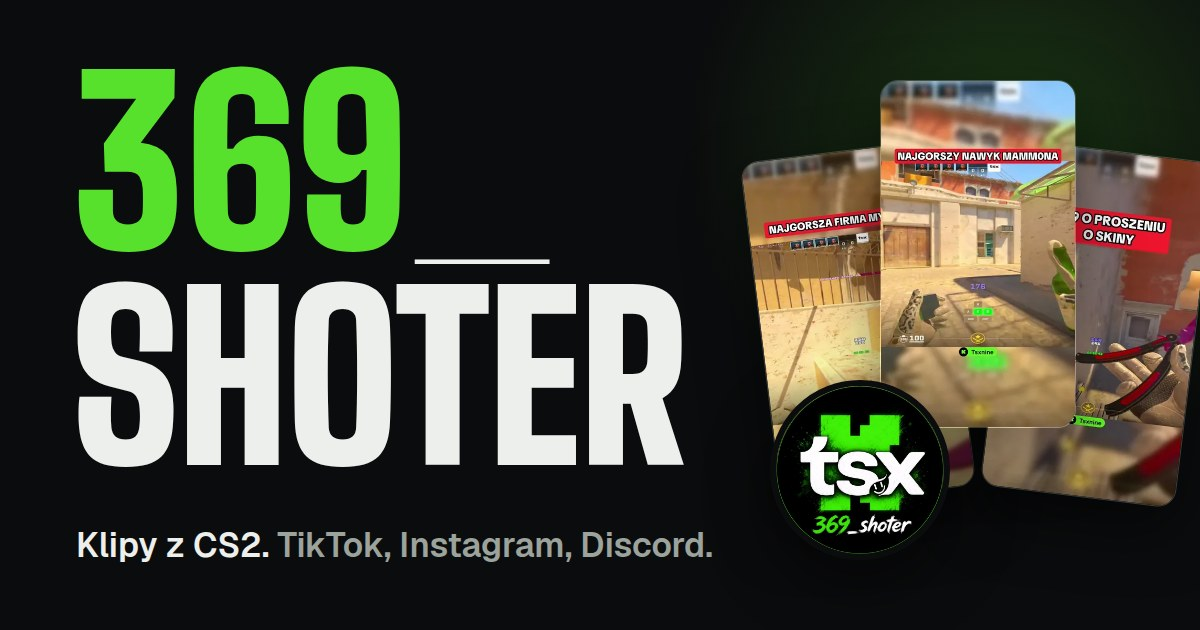
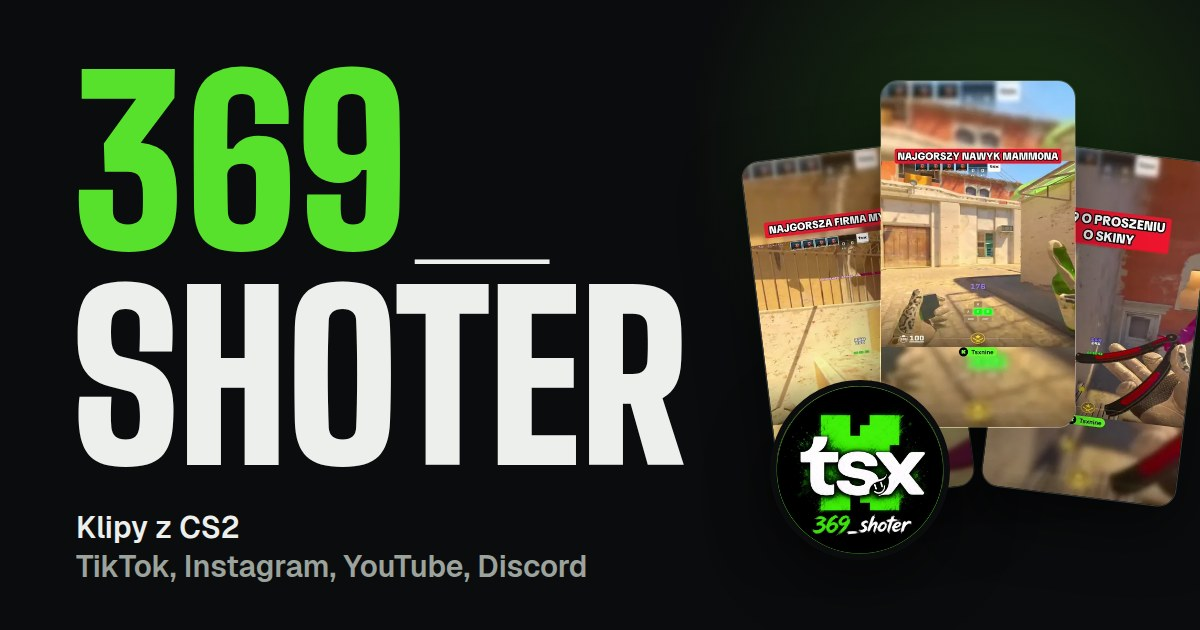
Add YouTube link to the site
New YouTube tile in the links section (now TikTok plus three stacked tiles),
icon in the header and footer, address in js/config.js, updated meta texts and
link preview image. Header stays on one line down to 320px wide screens.

Claude-Session: https://claude.ai/code/session_015qS3zw4QnskopSeQMD39CT

Changed region(s): [[0.0617, 0.8143, 0.5858, 0.9349]]

diff --git a/index.html b/index.html
@@ -3,8 +3,8 @@
 <head>
   <meta charset="utf-8">
   <meta name="viewport" content="width=device-width, initial-scale=1, viewport-fit=cover">
-  <title>369_shoter | Klipy z CS2, TikTok, Instagram, Discord</title>
-  <meta name="description" content="Klipy z CS2 i najlepsze akcje. Obserwuj 369_shoter na TikToku i Instagramie, dołącz na Discordzie i zobacz najpopularniejsze filmy.">
+  <title>369_shoter | Klipy z CS2, TikTok, Instagram, YouTube, Discord</title>
+  <meta name="description" content="Klipy z CS2 i najlepsze akcje. Obserwuj 369_shoter na TikToku, Instagramie i YouTube, dołącz na Discordzie i zobacz najpopularniejsze filmy.">
   <meta name="theme-color" content="#0b0c0d">
 
   <link rel="icon" type="image/png" href="assets/favicon.png">
@@ -16,7 +16,7 @@
   <meta property="og:locale" content="pl_PL">
   <meta property="og:site_name" content="369_shoter">
   <meta property="og:title" content="369_shoter | Klipy z CS2">
-  <meta property="og:description" content="TikTok, Instagram, Discord i najpopularniejsze filmy w jednym miejscu.">
+  <meta property="og:description" content="TikTok, Instagram, YouTube, Discord i najpopularniejsze filmy w jednym miejscu.">
   <meta property="og:url" content="https://tymonekk.github.io/">
   <meta property="og:image" content="https://tymonekk.github.io/assets/og.jpg">
   <meta property="og:image:width" content="1200">
@@ -36,6 +36,7 @@
   <symbol id="i-tiktok" viewBox="0 0 24 24"><path d="M12.525.02c1.31-.02 2.61-.01 3.91-.02.08 1.53.63 3.09 1.75 4.17 1.12 1.11 2.7 1.62 4.24 1.79v4.03c-1.44-.05-2.89-.35-4.2-.97-.57-.26-1.1-.59-1.62-.93-.01 2.92.01 5.84-.02 8.75-.08 1.4-.54 2.79-1.35 3.94-1.31 1.92-3.58 3.17-5.91 3.21-1.43.08-2.86-.31-4.08-1.03-2.02-1.19-3.44-3.37-3.65-5.71-.02-.5-.03-1-.01-1.49.18-1.9 1.12-3.72 2.58-4.96 1.66-1.44 3.98-2.13 6.15-1.72.02 1.48-.04 2.96-.04 4.44-.99-.32-2.15-.23-3.02.37-.63.41-1.11 1.04-1.36 1.75-.21.51-.15 1.07-.14 1.61.24 1.64 1.82 3.02 3.5 2.87 1.12-.01 2.19-.66 2.77-1.61.19-.33.4-.67.41-1.06.1-1.79.06-3.57.07-5.36.01-4.03-.01-8.05.02-12.07z"/></symbol>
   <symbol id="i-instagram" viewBox="0 0 24 24"><path d="M7.0301.084c-1.2768.0602-2.1487.264-2.911.5634-.7888.3075-1.4575.72-2.1228 1.3877-.6652.6677-1.075 1.3368-1.3802 2.127-.2954.7638-.4956 1.6365-.552 2.914-.0564 1.2775-.0689 1.6882-.0626 4.947.0062 3.2586.0206 3.6671.0825 4.9473.061 1.2765.264 2.1482.5635 2.9107.308.7889.72 1.4573 1.388 2.1228.6679.6655 1.3365 1.0743 2.1285 1.38.7632.295 1.6361.4961 2.9134.552 1.2773.056 1.6884.069 4.9462.0627 3.2578-.0062 3.668-.0207 4.9478-.0814 1.28-.0607 2.147-.2652 2.9098-.5633.7889-.3086 1.4578-.72 2.1228-1.3881.665-.6682 1.0745-1.3378 1.3795-2.1284.2957-.7632.4966-1.636.552-2.9124.056-1.2809.0692-1.6898.063-4.948-.0063-3.2583-.021-3.6668-.0817-4.9465-.0607-1.2797-.264-2.1487-.5633-2.9117-.3084-.7889-.72-1.4568-1.3876-2.1228C21.2982 1.33 20.628.9208 19.8378.6165 19.074.321 18.2017.1197 16.9244.0645 15.6471.0093 15.236-.005 11.977.0014 8.718.0076 8.31.0215 7.0301.0839m.1402 21.6932c-1.17-.0509-1.8053-.2453-2.2287-.408-.5606-.216-.96-.4771-1.3819-.895-.422-.4178-.6811-.8186-.9-1.378-.1644-.4234-.3624-1.058-.4171-2.228-.0595-1.2645-.072-1.6442-.079-4.848-.007-3.2037.0053-3.583.0607-4.848.05-1.169.2456-1.805.408-2.2282.216-.5613.4762-.96.895-1.3816.4188-.4217.8184-.6814 1.3783-.9003.423-.1651 1.0575-.3614 2.227-.4171 1.2655-.06 1.6447-.072 4.848-.079 3.2033-.007 3.5835.005 4.8495.0608 1.169.0508 1.8053.2445 2.228.408.5608.216.96.4754 1.3816.895.4217.4194.6816.8176.9005 1.3787.1653.4217.3617 1.056.4169 2.2263.0602 1.2655.0739 1.645.0796 4.848.0058 3.203-.0055 3.5834-.061 4.848-.051 1.17-.245 1.8055-.408 2.2294-.216.5604-.4763.96-.8954 1.3814-.419.4215-.8181.6811-1.3783.9-.4224.1649-1.0577.3617-2.2262.4174-1.2656.0595-1.6448.072-4.8493.079-3.2045.007-3.5825-.006-4.848-.0608M16.953 5.5864A1.44 1.44 0 1 0 18.39 4.144a1.44 1.44 0 0 0-1.437 1.4424M5.8385 12.012c.0067 3.4032 2.7706 6.1557 6.173 6.1493 3.4026-.0065 6.157-2.7701 6.1506-6.1733-.0065-3.4032-2.771-6.1565-6.174-6.1498-3.403.0067-6.156 2.771-6.1496 6.1738M8 12.0077a4 4 0 1 1 4.008 3.9921A3.9996 3.9996 0 0 1 8 12.0077"/></symbol>
   <symbol id="i-discord" viewBox="0 0 24 24"><path d="M20.317 4.3698a19.7913 19.7913 0 00-4.8851-1.5152.0741.0741 0 00-.0785.0371c-.211.3753-.4447.8648-.6083 1.2495-1.8447-.2762-3.68-.2762-5.4868 0-.1636-.3933-.4058-.8742-.6177-1.2495a.077.077 0 00-.0785-.037 19.7363 19.7363 0 00-4.8852 1.515.0699.0699 0 00-.0321.0277C.5334 9.0458-.319 13.5799.0992 18.0578a.0824.0824 0 00.0312.0561c2.0528 1.5076 4.0413 2.4228 5.9929 3.0294a.0777.0777 0 00.0842-.0276c.4616-.6304.8731-1.2952 1.226-1.9942a.076.076 0 00-.0416-.1057c-.6528-.2476-1.2743-.5495-1.8722-.8923a.077.077 0 01-.0076-.1277c.1258-.0943.2517-.1923.3718-.2914a.0743.0743 0 01.0776-.0105c3.9278 1.7933 8.18 1.7933 12.0614 0a.0739.0739 0 01.0785.0095c.1202.099.246.1981.3728.2924a.077.077 0 01-.0066.1276 12.2986 12.2986 0 01-1.873.8914.0766.0766 0 00-.0407.1067c.3604.698.7719 1.3628 1.225 1.9932a.076.076 0 00.0842.0286c1.961-.6067 3.9495-1.5219 6.0023-3.0294a.077.077 0 00.0313-.0552c.5004-5.177-.8382-9.6739-3.5485-13.6604a.061.061 0 00-.0312-.0286zM8.02 15.3312c-1.1825 0-2.1569-1.0857-2.1569-2.419 0-1.3332.9555-2.4189 2.157-2.4189 1.2108 0 2.1757 1.0952 2.1568 2.419 0 1.3332-.9555 2.4189-2.1569 2.4189zm7.9748 0c-1.1825 0-2.1569-1.0857-2.1569-2.419 0-1.3332.9554-2.4189 2.1569-2.4189 1.2108 0 2.1757 1.0952 2.1568 2.419 0 1.3332-.946 2.4189-2.1568 2.4189Z"/></symbol>
+  <symbol id="i-youtube" viewBox="0 0 24 24"><path d="M23.498 6.186a3.016 3.016 0 0 0-2.122-2.136C19.505 3.545 12 3.545 12 3.545s-7.505 0-9.377.505A3.017 3.017 0 0 0 .502 6.186C0 8.07 0 12 0 12s0 3.93.502 5.814a3.016 3.016 0 0 0 2.122 2.136c1.871.505 9.376.505 9.376.505s7.505 0 9.377-.505a3.015 3.015 0 0 0 2.122-2.136C24 15.93 24 12 24 12s0-3.93-.502-5.814zM9.545 15.568V8.432L15.818 12l-6.273 3.568z"/></symbol>
   <symbol id="i-arrow-up-right" viewBox="0 0 256 256"><path d="M204,64V168a12,12,0,0,1-24,0V93L72.49,200.49a12,12,0,0,1-17-17L163,76H88a12,12,0,0,1,0-24H192A12,12,0,0,1,204,64Z"/></symbol>
   <symbol id="i-arrow-down" viewBox="0 0 256 256"><path d="M208.49,152.49l-72,72a12,12,0,0,1-17,0l-72-72a12,12,0,0,1,17-17L116,187V40a12,12,0,0,1,24,0V187l51.51-51.52a12,12,0,0,1,17,17Z"/></symbol>
   <symbol id="i-copy" viewBox="0 0 256 256"><path d="M216,28H88A12,12,0,0,0,76,40V76H40A12,12,0,0,0,28,88V216a12,12,0,0,0,12,12H168a12,12,0,0,0,12-12V180h36a12,12,0,0,0,12-12V40A12,12,0,0,0,216,28ZM156,204H52V100H156Zm48-48H180V88a12,12,0,0,0-12-12H100V52H204Z"/></symbol>
@@ -64,6 +65,7 @@
       <div class="header-socials">
         <a class="icon-btn" data-link="tiktok" href="https://www.tiktok.com/@369_shoter" target="_blank" rel="noopener" aria-label="TikTok"><svg class="icon"><use href="#i-tiktok"/></svg></a>
         <a class="icon-btn" data-link="instagram" href="https://www.instagram.com/369_shoter/" target="_blank" rel="noopener" aria-label="Instagram"><svg class="icon"><use href="#i-instagram"/></svg></a>
+        <a class="icon-btn" data-link="youtube" href="https://www.youtube.com/@369_shoter" target="_blank" rel="noopener" aria-label="YouTube"><svg class="icon"><use href="#i-youtube"/></svg></a>
         <a class="icon-btn" data-link="discord" href="#linki" aria-label="Discord"><svg class="icon"><use href="#i-discord"/></svg></a>
       </div>
     </div>
@@ -74,7 +76,7 @@
       <div class="wrap hero-grid">
         <div class="hero-copy">
           <h1 class="hero-title"><span class="hl">369</span>_<span class="hero-title-2">shoter</span></h1>
-          <p class="hero-sub">Klipy z CS2 i najlepsze akcje. Nowe filmy na TikToku i Instagramie.</p>
+          <p class="hero-sub">Klipy z CS2 i najlepsze akcje. Nowe filmy na TikToku, Instagramie i YouTube.</p>
           <div class="hero-cta">
             <a class="btn btn-primary" data-link="tiktok" href="https://www.tiktok.com/@369_shoter" target="_blank" rel="noopener">
               <svg class="icon"><use href="#i-tiktok"/></svg>Obserwuj na TikToku
@@ -127,7 +129,19 @@
             </span>
           </a>
 
-          <div class="tile tile-discord" id="discord" data-reveal style="--d:.16s">
+          <a class="tile tile-yt" data-link="youtube" href="https://www.youtube.com/@369_shoter" target="_blank" rel="noopener" data-reveal style="--d:.16s">
+            <svg class="tile-mark" aria-hidden="true"><use href="#i-youtube"/></svg>
+            <span class="tile-top">
+              <svg class="icon tile-icon" aria-hidden="true"><use href="#i-youtube"/></svg>
+              <span class="tile-arrow"><svg class="icon" aria-hidden="true"><use href="#i-arrow-up-right"/></svg></span>
+            </span>
+            <span class="tile-body">
+              <span class="tile-name">YouTube</span>
+              <span class="tile-handle" data-handle="youtube">@369_shoter</span>
+            </span>
+          </a>
+
+          <div class="tile tile-discord" id="discord" data-reveal style="--d:.24s">
             <svg class="tile-mark" aria-hidden="true"><use href="#i-discord"/></svg>
             <span class="tile-top">
               <svg class="icon tile-icon" aria-hidden="true"><use href="#i-discord"/></svg>

diff --git a/css/style.css b/css/style.css
@@ -173,6 +173,15 @@ ul { padding: 0; list-style: none; }
   .nav { display: flex; }
   .header-socials { margin-left: 0; }
 }
+/* Cztery ikony w naglowku musza sie zmiescic takze na waskich telefonach */
+@media (max-width: 420px) {
+  .header-inner { gap: 8px; }
+  .brand-name { font-size: 22px; }
+  .header-socials .icon-btn { width: 38px; height: 38px; }
+}
+@media (max-width: 359px) {
+  .header-inner .brand-name { display: none; }
+}
 
 /* ---------- Hero ---------- */
 .hero {
@@ -241,8 +250,8 @@ ul { padding: 0; list-style: none; }
 .links .h2 { margin-bottom: clamp(28px, 4vw, 48px); }
 .bento { display: grid; gap: 14px; }
 @media (min-width: 820px) {
-  .bento { grid-template-columns: 1.4fr 1fr; grid-template-rows: repeat(2, minmax(200px, 1fr)); min-height: 440px; }
-  .tile-tiktok { grid-row: span 2; }
+  .bento { grid-template-columns: 1.4fr 1fr; grid-template-rows: repeat(3, minmax(190px, auto)); }
+  .tile-tiktok { grid-row: span 3; }
 }
 
 .tile {
@@ -284,8 +293,9 @@ a.tile:hover .tile-arrow, .tile:has(.tile-hit:hover) .tile-arrow { opacity: 1; t
 .tile-tiktok:focus-visible { outline-color: var(--text); }
 
 .tile-ig { background: radial-gradient(120% 90% at 100% 0%, color-mix(in srgb, var(--text) 9%, transparent), transparent 60%), var(--bg-elev); }
+.tile-yt { background: radial-gradient(90% 120% at 0% 100%, color-mix(in srgb, var(--accent) 11%, transparent), transparent 62%), var(--bg-elev); }
 .tile-discord { background: linear-gradient(165deg, var(--bg-elev-2), var(--bg-elev) 70%); }
-a.tile-ig:hover .tile-arrow, .tile-discord:has(.tile-hit:hover) .tile-arrow { background: var(--accent); color: var(--on-accent); border-color: var(--accent); }
+a.tile-ig:hover .tile-arrow, a.tile-yt:hover .tile-arrow, .tile-discord:has(.tile-hit:hover) .tile-arrow { background: var(--accent); color: var(--on-accent); border-color: var(--accent); }
 
 .tile-hit { position: absolute; inset: 0; z-index: 1; border-radius: inherit; }
 .tile-online { font-size: 15px; color: var(--accent-ink); font-weight: 600; }

diff --git a/js/main.js b/js/main.js
@@ -45,6 +45,7 @@
   const linkTargets = {
     tiktok: C.tiktok && C.tiktok.url,
     instagram: C.instagram && C.instagram.url,
+    youtube: C.youtube && C.youtube.url,
     discord: discord.invite || "#discord",
   };
   document.querySelectorAll("[data-link]").forEach((a) => {
@@ -274,6 +275,7 @@
     };
     if (C.tiktok && C.tiktok.url) add(C.tiktok.url, "TikTok", "tiktok");
     if (C.instagram && C.instagram.url) add(C.instagram.url, "Instagram", "instagram");
+    if (C.youtube && C.youtube.url) add(C.youtube.url, "YouTube", "youtube");
     if (discord.invite) add(discord.invite, "Discord", "discord");
     if (C.email) add("mailto:" + C.email, C.email, "envelope-simple");
     (C.extraLinks || []).forEach((l) => add(l.url, l.label, null));

diff --git a/js/config.js b/js/config.js
@@ -13,6 +13,11 @@ window.SITE_CONFIG = {
     url: "https://www.instagram.com/369_shoter/"
   },
 
+  youtube: {
+    handle: "369_shoter",
+    url: "https://www.youtube.com/@369_shoter"
+  },
+
   discord: {
     // Twój nick na Discordzie. Pokazuje się z przyciskiem "Skopiuj nick".
     username: "tymon3kk",

diff --git a/README.md b/README.md
@@ -54,6 +54,7 @@ prosto na GitHubie (ikona ołówka).
 
 | Co | Gdzie w `config.js` |
 | --- | --- |
+| Adresy TikToka, Instagrama i YouTube | `tiktok`, `instagram`, `youtube` |
 | Zaproszenie na serwer Discord | `discord.invite` |
 | Licznik osób online na Discordzie | `discord.serverId` (włącz "Widget serwera" w ustawieniach serwera) |
 | E-mail do współpracy | `email` |
